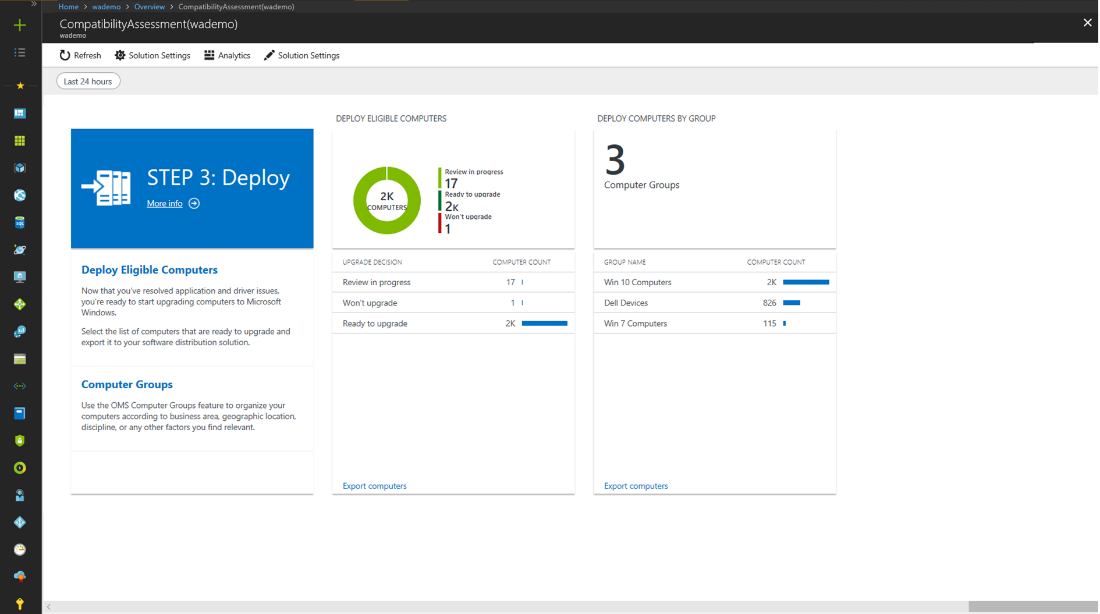
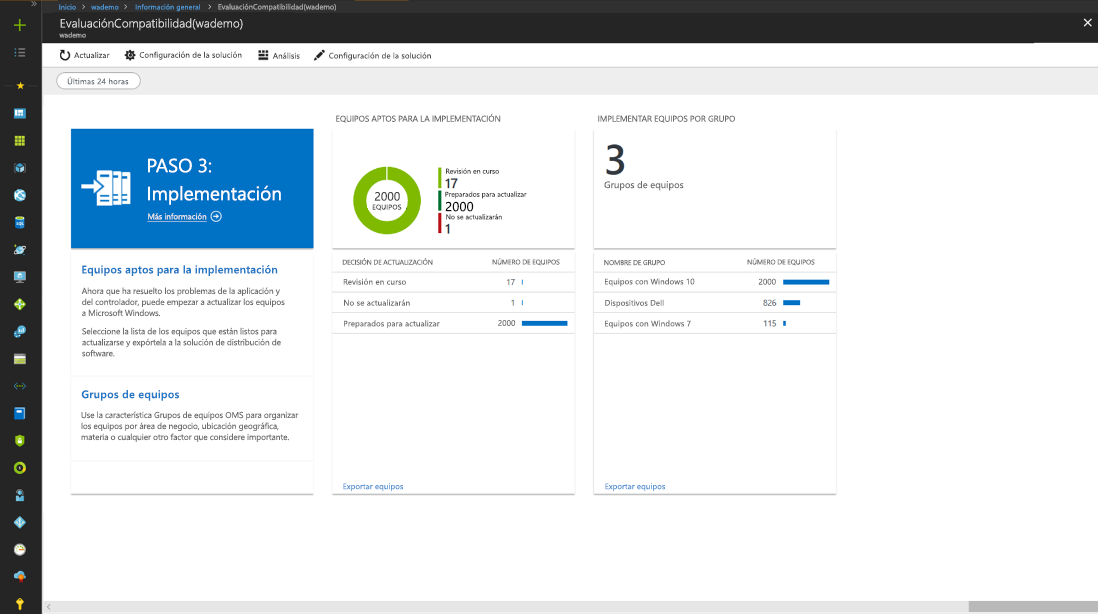
commit translated contents

diff --git a/microsoft-365/enterprise/includes/deployment-exit-criteria-windows10.md b/microsoft-365/enterprise/includes/deployment-exit-criteria-windows10.md
@@ -9,7 +9,7 @@ Si es necesario, el [paso 1](../windows10-prepare-your-org.md) puede ayudarle co
 
 ### <a name="optional-your-users-are-added-and-licensed"></a>Opcional: Los usuarios se agregan y reciben una licencia
 
-Se agregan las cuentas correspondientes a los usuarios, ya sea directamente a su inquilino de Azure AD para sus suscripciones de Office 365 e Intune o a partir de la sincronización de directorios del servidor local de Windows Server AD.
+Se agregan las cuentas correspondientes a los usuarios, ya sea directamente a su inquilino de Azure AD para sus suscripciones de Office 365 e Intune o a partir de la sincronización de directorios del servidor local de los servicios de dominio de Active Directory (AD DS).
 
 Cuando se agregan los usuarios, puede asignarles licencias de Microsoft 365 Enterprise, directamente como un administrador global o de usuarios, o automáticamente a través de la pertenencia a grupos.
 
@@ -27,8 +27,8 @@ Si es necesario, el [paso 1](../windows10-prepare-your-org.md) puede ayudarle co
 Para iniciar una secuencia de tareas de Configuration Manager con el fin de realizar una actualización local en un dispositivo con Windows 7 o Windows 8.1, debe:
 
 - Establecer el nivel de datos de diagnóstico de Windows adecuado
-- Comprobar la preparación para actualizar Windows
-- Crear una secuencia de tareas de Configuration Manager que incluya una colección de dispositivos y una implementación de sistema operativo con una imagen de sistema operativo de Windows 10
+- Haber comprobado la preparación para actualizar Windows
+- Haber creado la secuencia de tareas de Configuration Manager que incluya una colección de dispositivos y una implementación de sistema operativo con una imagen de sistema operativo de Windows 10
 
 Una vez hecho todo esto, puede realizar actualizaciones en los dispositivos que están preparados para actualizar Windows. Para obtener el máximo partido de Microsoft 365 Enterprise, actualice tantos dispositivos que utilicen Windows 7 y Windows 8.1 como sea posible. 
 
@@ -41,13 +41,13 @@ Si es necesario, el [paso 2](../windows10-deploy-inplaceupgrade.md) puede ayudar
 
 Para usar Windows Autopilot con el fin de implementar y personalizar Windows 10 Enterprise en un dispositivo nuevo, debe:
 
-- Establecer el nivel de datos de diagnóstico de Windows adecuado
-- Haber completado los requisitos previos de Windows Autopilot, entre los que se incluyen:
-- El registro de dispositivos y la personalización de la configuración rápida
-- Personalización de marca para configuración rápida
-- Inscripción automática de MDM en Microsoft Intune
-- Conectividad de red a servicios en la nube usados por Windows Autopilot
-- Los dispositivos deben tener preinstalado Windows 10, versión 1703 o posterior
+- Haber configurado el nivel de datos de diagnóstico de Windows adecuado
+- Haber configurado los requisitos previos de Windows Autopilot, entre los que se incluyen:
+   - El registro de dispositivos y la personalización de la configuración rápida
+   - Personalización de marca para configuración rápida
+   - Inscripción automática de MDM en Microsoft Intune
+   - Conectividad de red a servicios en la nube usados por Windows Autopilot
+- Los dispositivos que tienen preinstalado Windows 10, versión 1703 o posterior
 - Seleccionado el Programa de implementación de Windows Autopilot para su organización
 
 Una vez que se ha realizado la configuración de Windows Autopilot, puede usarlo para configurar y personalizar Windows 10 Enterprise para la configuración rápida (OOBE) de:

diff --git a/microsoft-365/enterprise/includes/deployment-exit-criteria-networking.md b/microsoft-365/enterprise/includes/deployment-exit-criteria-networking.md
@@ -1,10 +1,9 @@
 <a name="crit-networking-step1"></a>
 ### <a name="required-your-network-is-ready-for-microsoft-365-enterprise"></a>Obligatorio: la red está preparada para Microsoft 365 Enterprise
 
-- Las oficinas tienen suficiente ancho de banda de Internet para el tráfico de Microsoft 365, incluidas la instalación y las actualizaciones de Office 365, Microsoft Intune y Windows 10 Enterprise
-- Oficinas centrales para todo el tráfico de Internet general
-- Sucursales para el tráfico del punto de conexión de la categoría Optimizar
+- Las oficinas tienen suficiente ancho de banda de internet para el tráfico de Microsoft 365, incluidas la instalación y las actualizaciones de Office 365, Microsoft Intune y Windows 10 Enterprise
 - La red general se corresponde a una arquitectura de referencia de Office 365
+- Los cambios de la red han sido pilotados y probados y cumplen con los requisitos de latencia de tráfico
 
 Si es necesario, el [paso 1](../networking-provide-bandwidth-cloud-services.md) puede ayudarle con este requisito.
 
